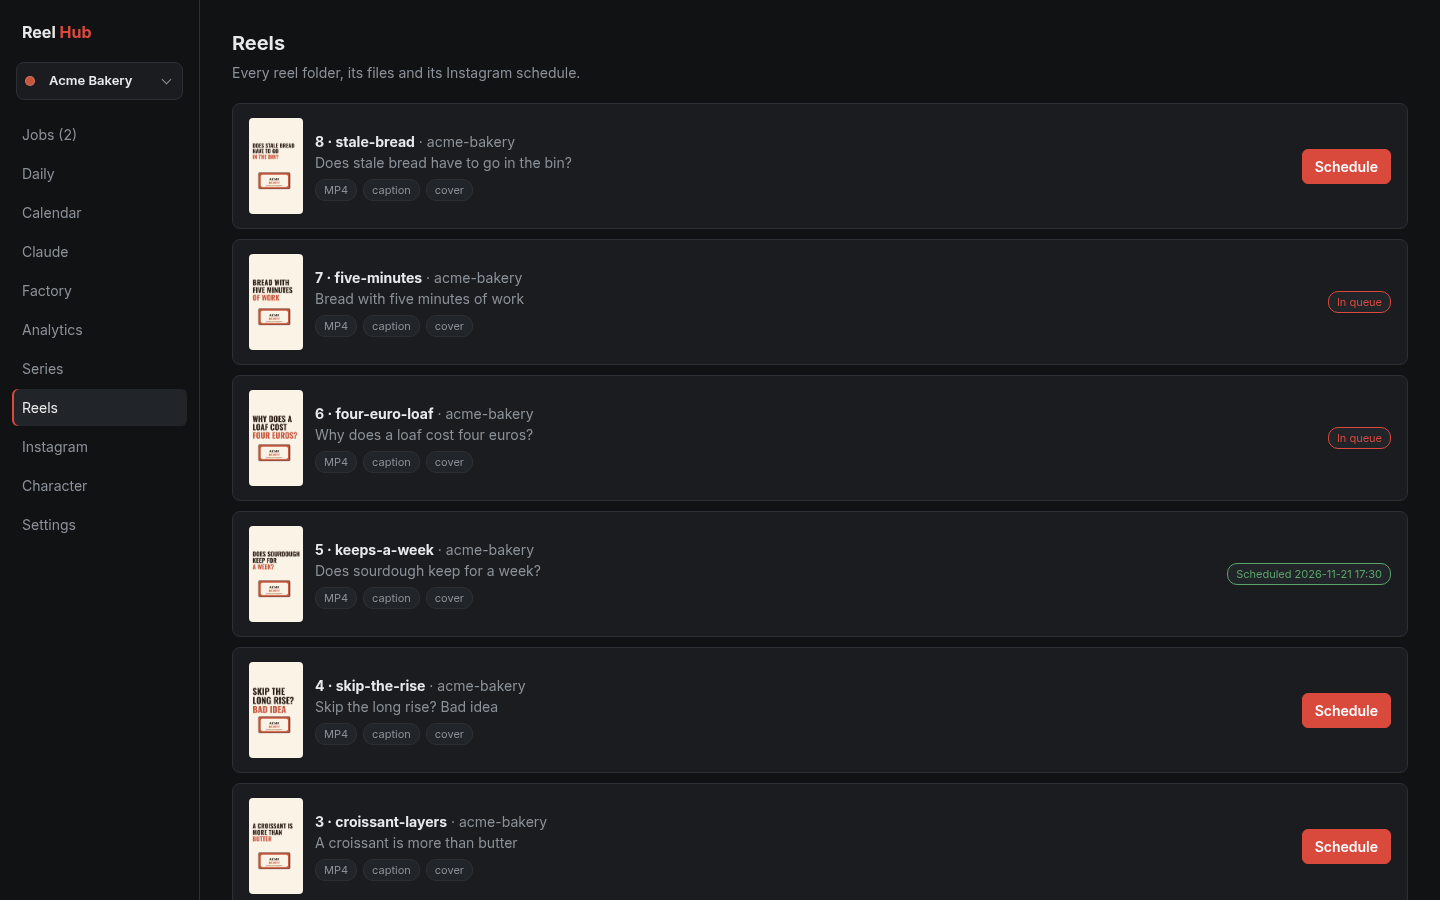
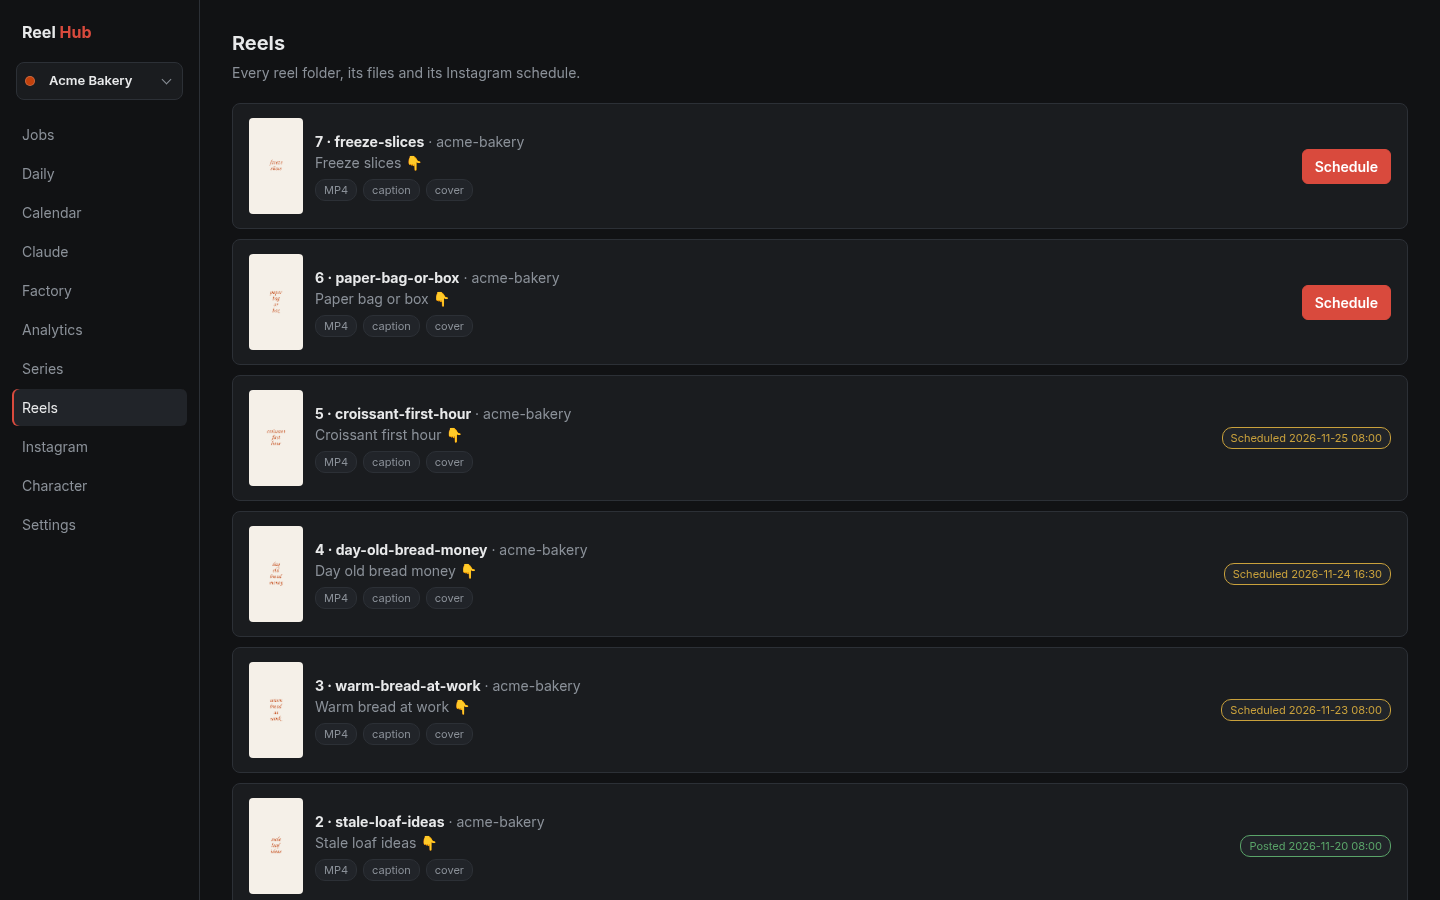
docs: retake the Reels and Settings screenshots, TODO after the creator polish

diff --git a/TODO.md b/TODO.md
@@ -31,9 +31,9 @@ then the app, then the big features, which are born with the final structure and
   uninstall, compose, CI and docs follow the new layout. Not tried yet on it: a real Instagram schedule, a reel made end to end, a voice. The old leftovers (`node_modules/`, `whisper.cpp/`, the `reel-post-*` units, the old session folders) are deleted.
 - **Closing keywords and closing lines in the brand creator: done (2026-11-20).** The interview proposes the two closing lines from what the brand sells and the two keyword lists (`factory.closingRules`, product and general); the form and the interview review have a box for each list (one word per line, a trailing `*` matches any word starting with it); `brand.create` saves them in the brand's `settings.json`. Not tried yet with the real assistant on a new brand.
 - **Voice step in the brand creator: done (2026-11-20).** The Voice card has a fourth choice, "Suggest voices for me": the `voice.generate` job asks the assistant for three voices that fit the brand (label, `instruct` text, a 30 to 45 word sample), VoiceStudio makes each one (`POST /generate` with `instruct`, no `ref_audio`), the WAVs are staged as voice uploads and the person listens and picks one (or asks for others; the new round avoids the ones already heard). The pick is sent as a voice upload with its words, so it ends up in `voice/voice.wav` and `voice/voice.txt` like a sample the person brought. Needs VoiceStudio running. Tested with a stand-in assistant and a stand-in voice server, and once for real (the job with the real assistant and VoiceStudio, in Italian: three distinct voices of 12 to 18 s). Not tried yet: the whole page in a browser, ending in a created brand.
-- **Brand creator polish:** edit a brand's colours, fonts and closing lines in the hub after creation (today: edit `brand.json`); a "first reel" shortcut that proposes ten
-  starting questions right after creation (today: "Find new ideas" in the Factory).
-- **Retake the screenshots** in `docs/images/` when a page changes visibly (see CONTRIBUTING.md). The Reels page changed (Posted and yellow Scheduled badges).
+- **Brand creator polish: done (2026-11-21).** Settings has a "Colours, fonts and closings" card (own Save button, `GET/PUT /api/brands/:slug/style`) for the colours, fonts and the two closing lines; new reels and covers use it at once, reels already made are not redrawn. After creating a brand the checklist has a "Propose 10 first questions" button that starts the ideas job and opens the Factory. Tried for real on a throw-away brand: the whole New brand page with "Suggest voices for me" down to a created brand, the ten proposed questions, a style change, and one reel made from zero (script, voice, render, cover with the new accent and font).
+- **Screenshots retaken (2026-11-21):** `reels-list.png` (Posted and Scheduled badges) and `settings.png`, from a scratch hub with the invented Acme Bakery brand.
+- **Not tried yet:** a real Instagram schedule on the new layout (every reel of the live brand is already posted or scheduled, so it needs a new reel first). The font list is empty in the running hub (names are not checked): the loader cannot find `@remotion/google-fonts` since the repository's `node_modules/` was removed.
 
 ### 2. The app
 
